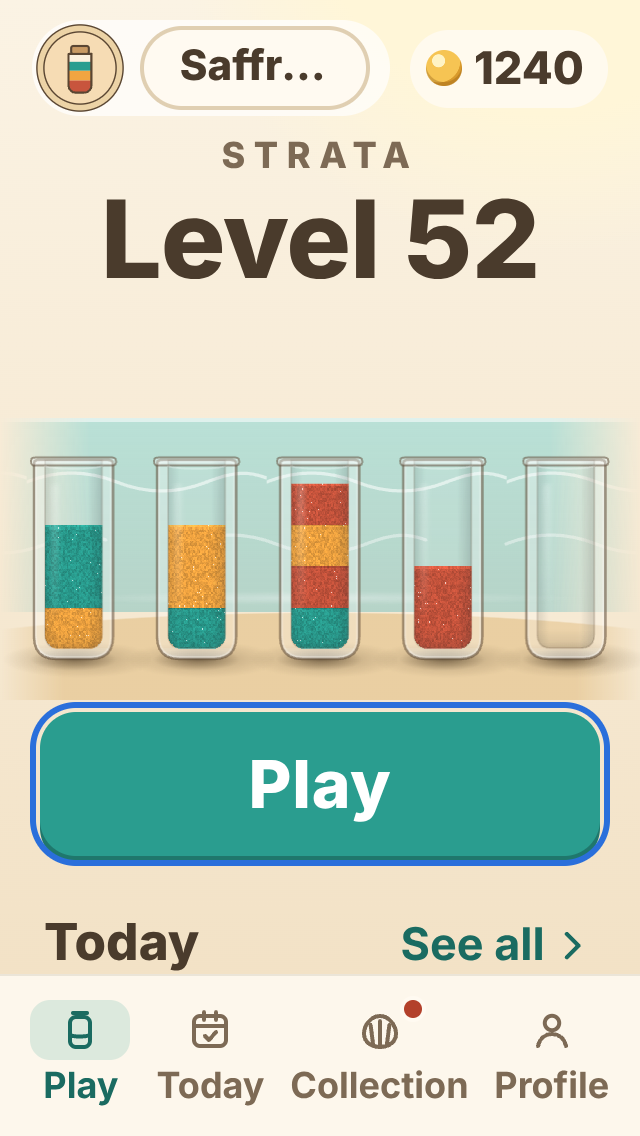
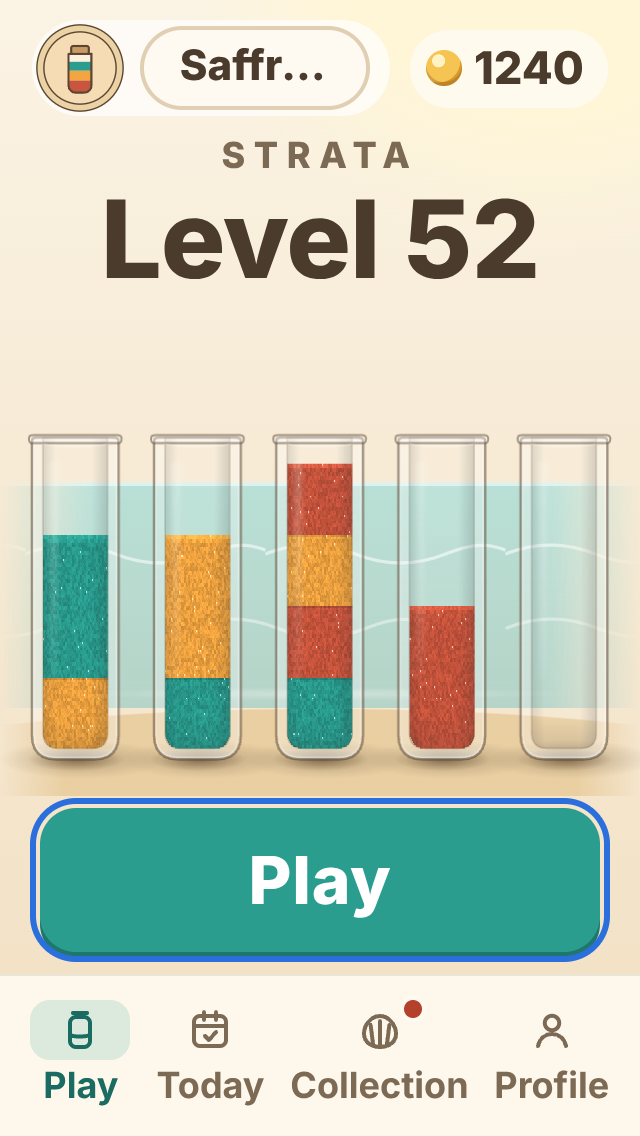
feat: release 0.19.1, a tiny sorting game as the Home hero (D173)
Five jars of Realistic sand auto-solve with the board's own renderer
(lift, tip, pour, cork, seal), re-mix and loop; tap starts the level;
a still on Classic, without WebGL and under reduced motion. Jars fill
most of the hero. What's new and the changelog. 1501 tests pass.

Issue: strata-1gy
Design: design/gdd/systems-index.md D173

Claude-Session: https://claude.ai/code/session_0159TZnthw6jUQwzZniQXEcQ

diff --git a/src/ui/logic/home-hero.ts b/src/ui/logic/home-hero.ts
@@ -34,6 +34,11 @@ export interface HeroTuning {
   readonly solveBudget: number;
   /** The hero's sand simulation rate (steps a second). */
   readonly stepsPerSecond: number;
+  /** The tipped jar's largest tilt (degrees) and the drop to the target (cells): lower than the board's, to stay inside the hero. */
+  readonly maxTiltDeg: number;
+  readonly airRows: number;
+  /** The glass's height as a share of the drawing area at rest. */
+  readonly glassShare: number;
   /** Colour ids the deals draw from. */
   readonly palette: readonly number[];
 }
@@ -203,24 +208,24 @@ export interface HeroJarBox {
 
 /** The glass's wall and base inset (board-gpu/geometry.ts `DOM_INSET`). */
 const INSET = 5.5;
-/** A jar's band height and gap as shares of its width, near the board's own proportions. */
-const UNIT_OF_WIDTH = 0.52;
-const GAP_OF_WIDTH = 0.55;
+/** The gap between jars as a share of their width. */
+const GAP_OF_WIDTH = 0.4;
 /** The jars never grow wider than this (CSS px). */
 const MAX_JAR_W = 62;
+/** Room under the jars for their shadows (CSS px). */
+const FOOT = 18;
 
 /**
- * The row of `count` jars of `capacity` along the bottom of a `width × height` stage, centred, with the
- * upper part left free for a lifted, tipped jar. Example: `heroLayout(412, 305, 5, 4)`.
+ * The row of `count` jars of `capacity` along the bottom of a `width × height` drawing area, centred.
+ * The glass is `glassShare` of the height, so the jars fill most of the hero at rest; the rest above is
+ * room for a lifted, tipped jar. Example: `heroLayout(412, 353, 5, 4, 0.7)`.
  */
-export function heroLayout(width: number, height: number, count: number, capacity: number): HeroJarBox[] {
-  const base = height - 20;
-  const byWidth = (width - 32) / (count + (count - 1) * GAP_OF_WIDTH);
-  // The glass may take at most half the stage's height: the rest is room for the pour.
-  const byHeight = (height * 0.5 - INSET) / (capacity * UNIT_OF_WIDTH + 0.3);
-  const w = Math.max(24, Math.min(MAX_JAR_W, byWidth, byHeight));
-  const unit = w * UNIT_OF_WIDTH;
-  const h = capacity * unit + INSET + w * 0.3;
+export function heroLayout(width: number, height: number, count: number, capacity: number, glassShare = heroTuning.glassShare): HeroJarBox[] {
+  const base = height - FOOT;
+  const w = Math.max(24, Math.min(MAX_JAR_W, (width - 32) / (count + (count - 1) * GAP_OF_WIDTH)));
+  const h = Math.max(w * 1.6, height * glassShare);
+  // The bands fill the glass up to a little under its rim, as on the board.
+  const unit = (h - INSET - w * 0.3) / capacity;
   const gap = w * GAP_OF_WIDTH;
   const left0 = (width - (count * w + (count - 1) * gap)) / 2;
   return Array.from({ length: count }, (_, i) => ({ left: left0 + i * (w + gap), top: base - h, width: w, height: h, unitHeight: unit }));

diff --git a/src/ui/style.css b/src/ui/style.css
@@ -4155,11 +4155,14 @@ body[data-theme='harvestmoon']::before {
   line-height: 1.1;
 }
 .hero-stage {
+  --hero-reach: 48px; /* the drawing area reaches up under the heading: room for the tipped jar */
   position: relative;
   z-index: 1;
   display: block;
   width: 100%;
-  height: clamp(240px, 74vw, 360px);
+  height: calc(clamp(240px, 74vw, 360px) + var(--hero-reach));
+  margin-top: calc(-1 * var(--hero-reach));
+  container-type: size;
 }
 .hero-stage canvas {
   display: block;
@@ -4341,17 +4344,18 @@ body:is([data-theme='moonlit'], [data-theme='harvestmoon'], [data-theme='newyear
   opacity: 0;
 }
 .hero-still {
-  --jar-w: clamp(40px, 13vw, 62px);
-  --unit-h: calc(var(--jar-w) * 0.52);
-  --jar-h: calc(var(--unit-h) * 4 + 6px + var(--jar-w) * 0.3);
-  --gap-x: calc(var(--jar-w) * 0.55);
+  /* The same row as the canvas (logic/home-hero.ts heroLayout): glass 65% of the area, gaps 0.4 widths. */
+  --jar-w: min(62px, (100cqw - 32px) / 6.6);
+  --jar-h: calc(65cqh - var(--jar-w) * 0.18);
+  --unit-h: calc((var(--jar-h) - 6px - var(--jar-w) * 0.3) / 4);
+  --gap-x: calc(var(--jar-w) * 0.4);
   position: absolute;
   inset: 0;
   display: flex;
   justify-content: center;
   align-items: flex-end;
   gap: var(--gap-x);
-  padding-bottom: 20px;
+  padding-bottom: 18px;
   pointer-events: none;
 }
 .hero-still .jar {
@@ -5060,7 +5064,7 @@ body:is([data-theme='moonlit'], [data-theme='harvestmoon'], [data-theme='newyear
 /* Large text on a narrow phone: the hero gives up height first; nothing scrolls sideways. */
 @media (max-width: 360px) {
   .hero-stage {
-    height: clamp(220px, 74vw, 300px);
+    height: calc(clamp(220px, 74vw, 300px) + var(--hero-reach));
   }
   .home .goals-list .goal-row {
     grid-template-columns: minmax(0, 1fr) auto;
@@ -5073,7 +5077,7 @@ body:is([data-theme='moonlit'], [data-theme='harvestmoon'], [data-theme='newyear
 }
 @media (max-height: 620px) {
   .hero-stage {
-    height: clamp(200px, 62vw, 280px);
+    height: calc(clamp(200px, 62vw, 280px) + var(--hero-reach));
   }
 }
 

diff --git a/tests/unit/ui/logic/home-hero.test.ts b/tests/unit/ui/logic/home-hero.test.ts
@@ -104,18 +104,26 @@ describe('heroRuns (D169)', () => {
 
 describe('heroLayout', () => {
   it.each([
-    [412, 305],
-    [320, 220],
-    [560, 360],
-  ])('fits %ix%i: the jars in a centred row in the stage, the top half free for the pour', (w, h) => {
-    const jars = heroLayout(w, h, 5, 4);
+    [412, 353],
+    [320, 285],
+    [560, 408],
+  ])('fits %ix%i: a centred row of five jars whose glass fills most of the height, with room above for the pour', (w, h) => {
+    const jars = heroLayout(w, h, 5, 4, heroTuning.glassShare);
     expect(jars).toHaveLength(5);
     for (const j of jars) {
       expect(j.left).toBeGreaterThanOrEqual(0);
       expect(j.left + j.width).toBeLessThanOrEqual(w);
       expect(j.top + j.height).toBeLessThanOrEqual(h);
-      expect(j.top).toBeGreaterThanOrEqual(h * 0.45);
+      expect(j.height / h).toBeGreaterThanOrEqual(0.6);
+      expect(j.height / h).toBeLessThanOrEqual(0.75);
+      expect(j.top).toBeGreaterThanOrEqual(h * 0.15);
+      expect(j.unitHeight * 4).toBeLessThan(j.height);
     }
     expect(jars[0].left).toBeCloseTo(w - (jars[4].left + jars[4].width));
+  });
+  it('tips less and drops less than the board, so the tipped jar stays inside the hero', () => {
+    expect(heroTuning.maxTiltDeg).toBeLessThan(110);
+    expect(heroTuning.maxTiltDeg).toBeGreaterThan(90);
+    expect(heroTuning.airRows).toBeLessThan(24);
   });
 });

diff --git a/src/ui/strings.ts b/src/ui/strings.ts
@@ -201,6 +201,15 @@ const en = {
     latest: 'Latest',
     releases: [
       {
+        version: '0.19.1',
+        name: 'A game on Home',
+        lines: [
+          'Home now shows a little game of Strata playing itself: jars pour, sort and seal, then mix up and start again.',
+          'Tap it to jump straight into your level.',
+          'On the Classic board, or with reduced motion on, it shows a still picture instead.',
+        ],
+      },
+      {
         version: '0.19.0',
         name: 'A new Home',
         lines: [

diff --git a/src/ui/screens/home-hero.ts b/src/ui/screens/home-hero.ts
@@ -83,7 +83,7 @@ function load(): Promise<void> {
         motion: gpuMotion(),
         reducedMotion,
         dims: defaultDims(),
-        config: { ...sandConfig, stepsPerSecond: heroTuning.stepsPerSecond },
+        config: { ...sandConfig, stepsPerSecond: heroTuning.stepsPerSecond, maxTiltDeg: heroTuning.maxTiltDeg, airRows: heroTuning.airRows },
         viewSize: stageSize,
         className: 'hero-canvas',
         onContext: (isLost) => {

diff --git a/design/gdd/systems-index.md b/design/gdd/systems-index.md
@@ -234,4 +234,4 @@ Every `INTENT UNKNOWN` item was put to the owner. "Build" means the decision nee
 | D170 | Process | **A clickable mock-up for the owner's approval before the build**; release as 0.19.0 | release | built |
 | D171 | Next streak reward on Home | **Its own card with a track**: the reward's picture and name, "Day N · … in K days", and a track of the six reward days (collected ticked, the streak marked, the next highlighted); tap opens the full list (owner, mock-up review 2026-11-12) | feel-audio-ui, daily-puzzle | built |
 | D172 | Goals on Home | **Moved to the Today tab**; Play keeps the hero, Play, the daily and event cards and the streak card | feel-audio-ui, daily-goals | built |
-| D173 | Home hero, revised | **A tiny game playing itself**: 4-5 jars of mixed sand; a jar lifts, tips and pours its top colour onto a match about every 2-3 s until a jar seals with its cork and sparkle, then the scene re-mixes and loops; tapping it starts the player's level. Replaces the 3 jars and funnel of D167 (owner, 2026-11-12) | feel-audio-ui | planned |
+| D173 | Home hero, revised | **A tiny game playing itself**: 4-5 jars of mixed sand; a jar lifts, tips and pours its top colour onto a match about every 2-3 s until a jar seals with its cork and sparkle, then the scene re-mixes and loops; tapping it starts the player's level. Replaces the 3 jars and funnel of D167 (owner, 2026-11-12) | feel-audio-ui | built |

diff --git a/production/releases/CHANGELOG.md b/production/releases/CHANGELOG.md
@@ -28,6 +28,14 @@ When a release merges, add its row here so a backfill can recreate it.
 
 ## Unreleased
 
+## 0.19.1 (2026-11-12): a game on Home
+**For players**
+- The Home hero is now a tiny game of Strata playing itself: 5 jars of mixed sand, a jar lifting and pouring its top colour onto a match every couple of seconds, corks sealing full jars, then a fresh mix. Tap it to start your level.
+- A still picture on Classic, without WebGL and under reduced motion.
+
+**Under the hood**
+- Owner decision D173 (replaces the funnel scene). The hero runs a second copy of the board's own renderer, so the pour, cork and glow are the board's; seeded boards are kept only if the solver solves them in 6-14 pours (`src/ui/logic/home-hero.ts`, tuning in `homeHero`).
+
 ## 0.19.0 (2026-11-12): sprint 20, a new Home
 **For players**
 - A calmer Home: a live Realistic-sand scene (a still picture on Classic), the level and one big Play button, then today's daily, the event when one runs, and a card for your next streak reward with a track of every reward day.
